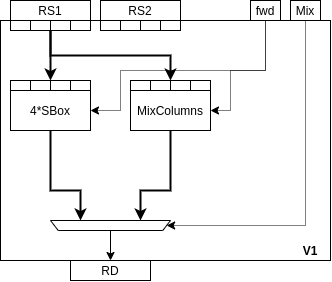
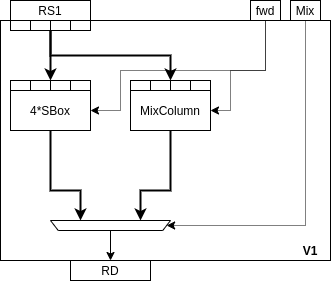
paper: Update datapath diagrams and move to appendix.
On branch master
 Your branch is up-to-date with 'origin/master'.

 Changes to be committed:
	modified:   doc/diagrams/ise-datapath-v1.png
	modified:   doc/diagrams/ise-datapath-v2.png
	modified:   doc/diagrams/ise-datapath-v3.png
	modified:   doc/diagrams/ise-datapath-v5.png
	modified:   doc/diagrams/ise-datapaths.drawio
	modified:   doc/paper.tex
	new file:   doc/tex/appx-diagrams.tex
	modified:   doc/tex/body-ise_intro.tex

 Changes not staged for commit:
	modified:   extern/riscv-gnu-toolchain (modified content)
	modified:   extern/riscv-isa-sim (modified content)
	modified:   extern/riscv-pk (modified content)

diff --git a/doc/tex/body-ise_intro.tex b/doc/tex/body-ise_intro.tex
@@ -1,40 +1,5 @@
 % =============================================================================
 
-\begin{figure}[t]
-\centering
-\begin{subfigure}[t]{0.40\textwidth}
-    \centering
-    \includegraphics[width=\textwidth]{diagrams/ise-datapath-v1.png}
-    \caption{\ISE{1}.}
-    \label{fig:ise:design:v1}
-\end{subfigure}
-\begin{subfigure}[t]{0.40\textwidth}
-    \centering
-    \includegraphics[width=\textwidth]{diagrams/ise-datapath-v2.png}
-    \caption{\ISE{2}.}
-    \label{fig:ise:design:v2}
-\end{subfigure}
-
-\begin{subfigure}[t]{0.40\textwidth}
-    \centering
-    \includegraphics[width=\textwidth]{diagrams/ise-datapath-v3.png}
-    \caption{\ISE{3}.}
-    \label{fig:ise:design:v3}
-\end{subfigure}
-\begin{subfigure}[t]{0.40\textwidth}
-    \centering
-    \includegraphics[width=\textwidth]{diagrams/ise-datapath-v5.png}
-    \caption{\ISE{5}.}
-    \label{fig:ise:design:v5}
-\end{subfigure}
-\caption{
-A block diagram for each ISE variant, illustrating the associated AES functional unit.
-}
-\label{fig:ise:design}
-\end{figure}
-
-% -----------------------------------------------------------------------------
-
 \REFSEC{sec:bg:aes_impl_ise}
 outlined a range ISE designs, which constitute a large design space of
 options that we {\em could} consider.  To narrow the design space into

diff --git a/doc/tex/appx-diagrams.tex b/doc/tex/appx-diagrams.tex
@@ -1,0 +1,36 @@
+
+
+\begin{figure}[h]
+\centering
+\begin{subfigure}[t]{0.40\textwidth}
+    \centering
+    \includegraphics[width=\textwidth]{diagrams/ise-datapath-v1.png}
+    \caption{\ISE{1}.}
+    \label{fig:ise:design:v1}
+\end{subfigure}
+\begin{subfigure}[t]{0.40\textwidth}
+    \centering
+    \includegraphics[width=\textwidth]{diagrams/ise-datapath-v2.png}
+    \caption{\ISE{2}.}
+    \label{fig:ise:design:v2}
+\end{subfigure}
+
+\begin{subfigure}[t]{0.40\textwidth}
+    \centering
+    \includegraphics[width=\textwidth]{diagrams/ise-datapath-v3.png}
+    \caption{\ISE{3}.}
+    \label{fig:ise:design:v3}
+\end{subfigure}
+\begin{subfigure}[t]{0.40\textwidth}
+    \centering
+    \includegraphics[width=\textwidth]{diagrams/ise-datapath-v5.png}
+    \caption{\ISE{5}.}
+    \label{fig:ise:design:v5}
+\end{subfigure}
+\caption{
+A block diagram for each ISE variant, illustrating the associated AES functional unit.
+}
+\label{fig:ise:design}
+\end{figure}
+
+% -----------------------------------------------------------------------------

diff --git a/doc/paper.tex b/doc/paper.tex
@@ -187,6 +187,10 @@ under the RISE (\url{http://www.ukrise.org}) programme.
 
 \appendix
 
+\section{ISE Datapaths}
+\label{sec:datapaths}
+\input{tex/appx-diagrams.tex}
+
 \newpage
 \section{\ISE{1} Mnemonics and pseudo-code}
 \label{sec:pseudo:v1}
